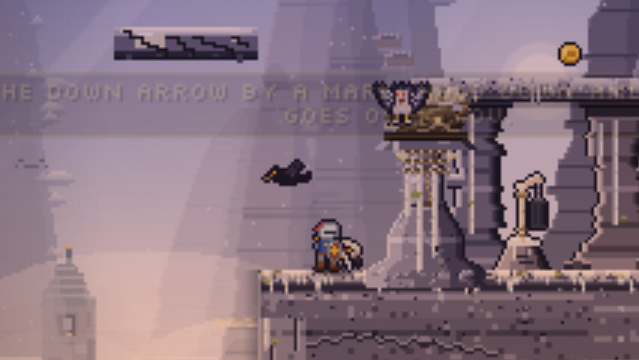
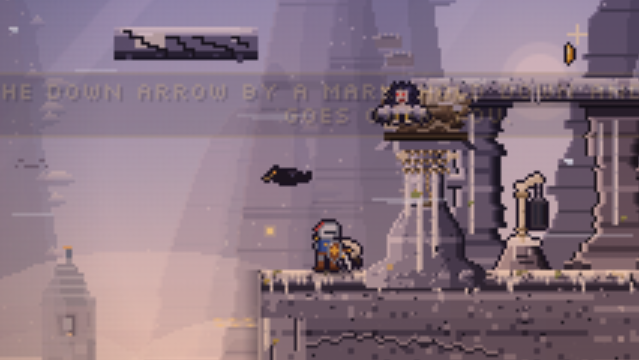
rookery2art: report, last-death shot

diff --git a/src/redraw/rookery_tiles.js b/src/redraw/rookery_tiles.js
@@ -39,6 +39,10 @@ function capBand(g, x, y, eL, eR, S) {
     for (let q = 0; q < d; q++) px2(g, k, q, q === 0 ? (patch ? GUANO[3] : S[6]) : q === d - 1 ? (patch ? GUANO[0] : S[2]) : patch ? GUANO[q % 2 ? 2 : 1] : S[5]);
     if (hv % 11 === 0) px2(g, k, 1, S[1]); if (hv % 13 === 5) px2(g, k, 0, S[3]); }                                                                               /* grit */
   for (let i = 0; i < 2; i++) { const hv = hash(x * 3 + i * 17, y * 5 + 1); if (hv % 3 === 2 && i) continue; const dx = 2 + (hv % 12), L = 3 + (hv % 4); for (let q = 3; q < 3 + L; q++) px2(g, dx, q, q === 2 + L ? GUANO[0] : GUANO[q % 2 ? 1 : 2]); }   /* drips */
+  { const h1 = hash(x * 5 + 3, y * 3 + 1);   /* (claude/rookery2art) PEBBLES and a hairline CRACK, so a long walk is never a flat strip: a scatter of grit stones on the crust, a crack through it now and then, a guano blob */
+    if (h1 % 3 === 0) { const k = 1 + (h1 >> 3) % 11; px2(g, k, 1, S[3]); px2(g, k + 1, 1, S[4]); px2(g, k + 1, 0, S[6]); px2(g, k, 2, S[1]); }
+    if (h1 % 7 === 2) { const k = 2 + (h1 >> 4) % 11; px2(g, k, 2, S[0]); px2(g, k, 3, S[0]); px2(g, k + 1, 4, S[0]); px2(g, k + 1, 5, S[1]); px2(g, k, 1, S[1]); }
+    if (h1 % 5 === 1) { const k = 1 + (h1 >> 5) % 10; px2(g, k, 0, GUANO[3]); px2(g, k + 1, 0, GUANO[3]); px2(g, k + 2, 0, GUANO[2]); px2(g, k, 1, GUANO[2]); px2(g, k + 1, 1, GUANO[3]); px2(g, k + 2, 1, GUANO[1]); } }
   if (eL) { px2(g, 0, 0, S[2]); for (let q = 1; q < 5; q++) px2(g, 0, q, GUANO[q % 2 ? 1 : 0]); }                                                                   /* rolled over a free end */
   if (eR) { px2(g, 15, 0, S[2]); for (let q = 1; q < 5; q++) px2(g, 15, q, GUANO[q % 2 ? 0 : 1]); }
 }

diff --git a/work/claude/lane-done/claude-rookery2art.md b/work/claude/lane-done/claude-rookery2art.md
@@ -1,0 +1,45 @@
+# ROOKERY 2 ART lane (sonnet) - DONE (claude/rookery2, pushed; NOT merged, NOT deployed)
+Base: the opus greybox acb9fed4. Code HEAD a393878c (+ report commit on top). **Level hash unchanged: 1090cc32a3c3** (tools/rookeryart.mjs green). Boss numbers untouched (no HP/timing/damage edits).
+New files: src/redraw/gale_harpy_art.js, rookery_anchor_art.js, rookery_hang.js, rookery_arena_art.js, rookery_props_art.js; tools/rookery2art-sheet.mjs, -shots.mjs, -motion.mjs (not in the suite). Shots: work/claude/shots/rookery2art/ (before/ = the greybox).
+
+## DRAWN
+- **Shriek Sisters, 28 new poses** (POSE + poseOf() in src/shriek-sisters-hands.js; each mode now picks a pose by how long she has been in it):
+  - dive wind-up x2, recover x2 (after a dive), shriek inhale x2 + scream tail, hurt (a wince, eye shut), stun nod x3 (stuck/B/C), perched x3 (wings now TUCKED, head turns/preens), cornered flail x2, the fall (a knocked-down bird still in the air), carry x2 (wings beating), growth x3 (crouch, flung, burst), death x3.
+  - Per sister, reachable in the real fight: diver 17 (dive/rake/chain/jar/stuck/ferry...), shrieker 19, snatcher 19 sheet poses; all >= 5 new each + a death each.
+  - **Death** (drawDeaths): struck up and back, a spinning fall with loose feathers, lies in the rubble, fades 1.9 s. Needs ctx.bossActive: the LAST sister's death is drawn only while the boss is still active (see Not drawn).
+- **P2 survivor looks x3, painted into her sheet** (greybox rectangles gone): diver gift = pale swept crest + white wing bars; shrieker gift = 7-feather red crest fan + pink throat sac; snatcher gift = stitched leather satchel on a strap, scarred brow, big talons. Each survivor wears the other two's (sheet-survivors.png), 1.3x.
+- **Gale harpy own sheet**: a PROFILE raptor (the crag harpy is frontal), storm-teal, long white-tipped wings, plume scarf, tail streamers. Frames: hover up/down, THE BEAT (wings forward+down), BROKEN (tumble, loose feathers, dizzy stars), THE TELL (wings flung straight back, chest out, red eye, beak open), hurt. New gust art: S-curved ribbons gathering in the tell, 9 racing in the beat, grit + feathers.
+- **Hero hanging** (rookery_hang.js): her scaled legs, toes wrapped over his shoulders, claws in the collar, his arms up gripping her shanks, shed feathers. Used for rides, the ferry, the snatcher's GRAB and the P2 snatch. Ride harpy LIFT: legs hang open, claws spread.
+- **Ride kit**: feather trail (quill + barbs, twinkling) to a landing ring with a chevron; mount claw-gouges + guano; GRAB = four pulsing gold corner brackets.
+- **Anchors** (rookery_anchor_art.js): baked rock SPIRES (strata, lit west/dark east, guano streaks, crack, lichen, scree foot) with sinew lashings and bone toggles at the neck; stepped stone CORBELS from the face; CHAINS from a riveted iron+bone staple in the overhang to hide-wrapped rings. The **hung nest's arm now springs from its spire's capital** (it floated beside it).
+- **No wood**: the Rookery's checkpoint shrine is a bone mast + horn arm + iron cage lantern on a guano-capped stone pedestal; signs are limestone tablets in a stone stub (the photos' wooden gibbet and plank signs). main.js: shrineKind() 'rookery', 3 sign/shrine draw lines.
+- **Caps**: pebbles, hairline cracks, guano blobs added to the rock-and-guano crust (every walkable top already had it from the greybox).
+- **Boss room** (rookery_arena_art.js): the perch wears a real bone nest (skull on the rim, guano drips) lashed at both ends; egg nests + lashings on both end shelves; THE MONASTERY landmark (tiered terracotta roof, bell tower, lit window, prayer flags, smoke) hazed on a far crag, slow parallax; wind streaks + feathers across the whole screen.
+- **Three-bar style**: each bar = a bird-head icon socket (diver crest / shrieker fan / snatcher scar) + framed two-tone bar with quarter ticks; open = gold blink, survivor = ember; a dead sister's plate is cracked with a feather on it.
+
+## CHECKS (alone, one browser at a time, RAM >= 2 GB)
+- Green: anchor-lint rookery (0 faults); level-quality rookery (clears the bar; blocking WARN report-only as before); tools/rookery.mjs; rookery-probe (no page error); rookeryart (hash); tells; boss-read; boss-openings; comments; answer-tags; **textfit bestiary 337 screens, all 0**.
+- **mobile-perf rookery, 4x CPU: 57.4 fps (p95 18.3 ms), budget 40** (greybox 60.1 on an idle PC; this run had a lane beside it). It measures the road, not the boss room.
+- tools/rookery2art-motion.mjs: three kill orders x 30 s each fought with every frame rendered: no page error, no NaN, every mode has a pose, poses cycle in time (no mode stuck on one frame).
+- ability-poses (77/77, debt 0), floaters, dressing: green.
+- Not run: the full suite, check.mjs, textfit levelcard, corpses (as told), dry rates (no numbers changed).
+
+## NOT DRAWN / WATCH
+- Gale ledges' loose eggs/rocks: the module's props hook has nothing moving in the Rookery; static eggs would not read as gale-pushed, so none (rec accepted as "only if they read").
+- The LAST sister's death plays only while ctx.bossActive (headless: the victory beat covers it within 30 frames); if the boss-kill beat clears it first she just vanishes into the existing fell banner. Check live.
+- The 'torch' props at the arena's ends are the game's generic torch (not redrawn). The ride harpy still wears the crag harpy sheet (frames 0-4) plus live legs; no own carry frame.
+- Camera in the headless shots lags a teleport, so the survivor/ferry crops are rough; sheets are exact.
+- Hero hang: the hero sprite itself is the normal air frame (arms from the sheet + my gloves); no new hero art for 9 heroes.
+- Snatch hold: kept 1.8 s. I did not play it by hand (headless only), so no trap evidence either way.
+
+## QUESTIONS FOR DANIEL (rec first; built = rec)
+1. Wood-free checkpoint: bone mast + cage lantern for the Rookery only. Rec: keep; copy the idea to other crag levels later (they still use the wood post).
+2. Gale harpy is drawn in profile (differs from every harpy). Rec: keep; it is what makes her tell (wings swept back) read at a glance.
+3. Snatch hold 1.8 s: rec keep; play it once on the art build and say if it feels like a trap (then 2.2 s).
+4. Monastery sits far west of the summit sky. Rec: keep; it can be the Sky Road's first far landmark too.
+
+## BEST SHOTS FOR DANIEL (work/claude/shots/rookery2art/)
+1. sheet-survivors.png - the three phase-2 survivors, each wearing the dead sisters' parts.
+2. boss-room.png - the summit: monastery, perch nest, shelves, bars with icons, wind.
+3. photo1-ledges.png (after) vs before/rookery2-anchors-gap.png, and photo2-pillars.png vs before/rookery2-caps.png - the two photo spots.
+4. sheet-gale.png - the gale harpy's frames (tell, beat, broken); also sheet-shrieker/diver/snatcher.png for the new poses, boss-death.png.
